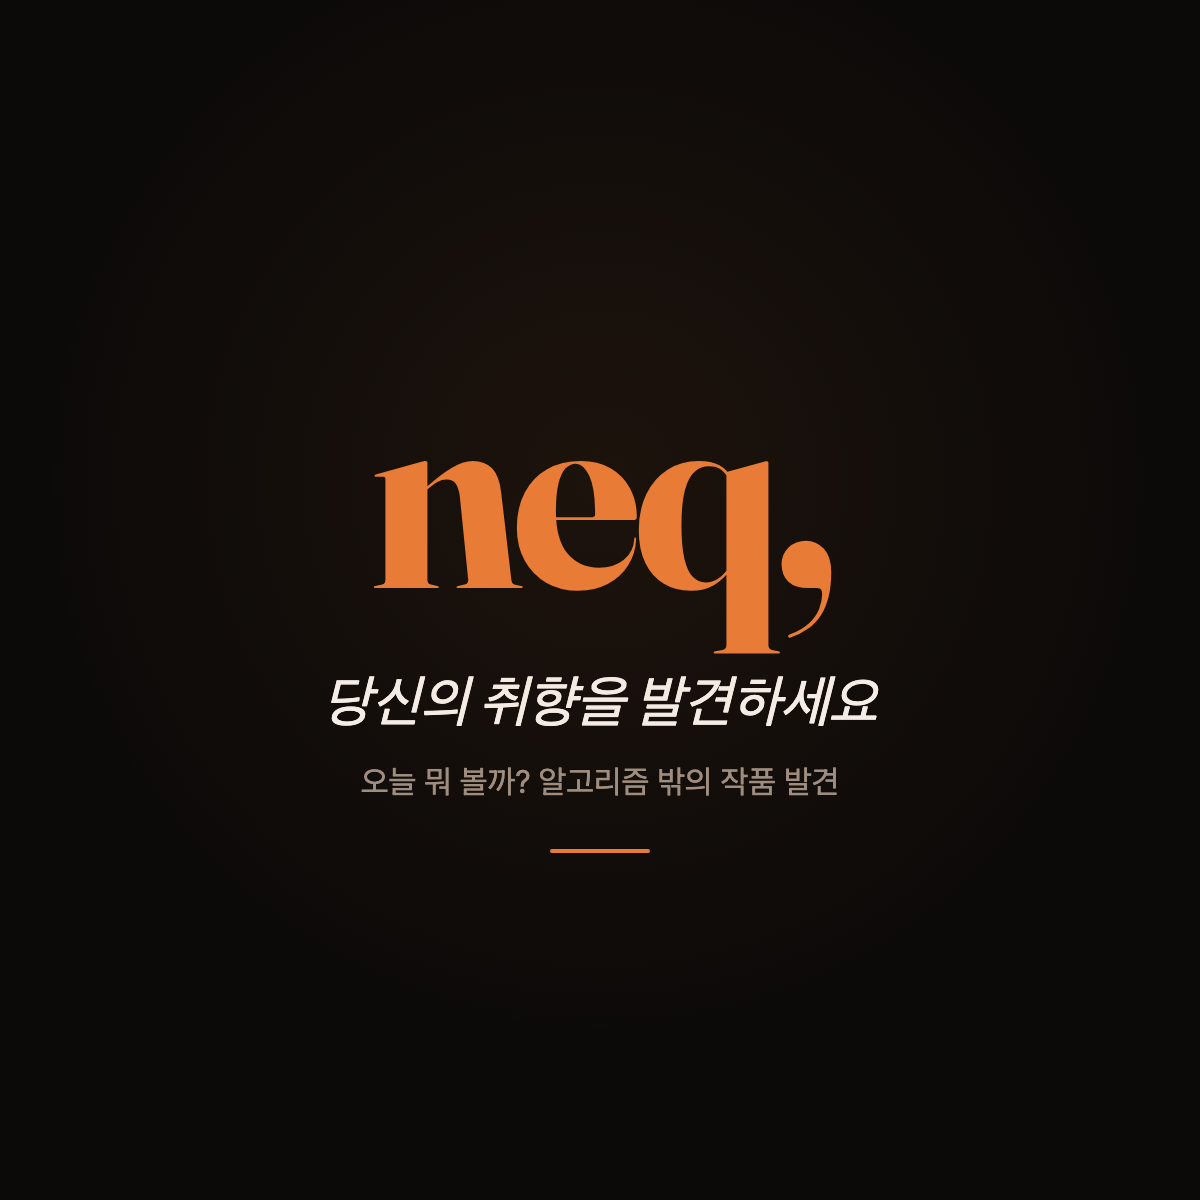
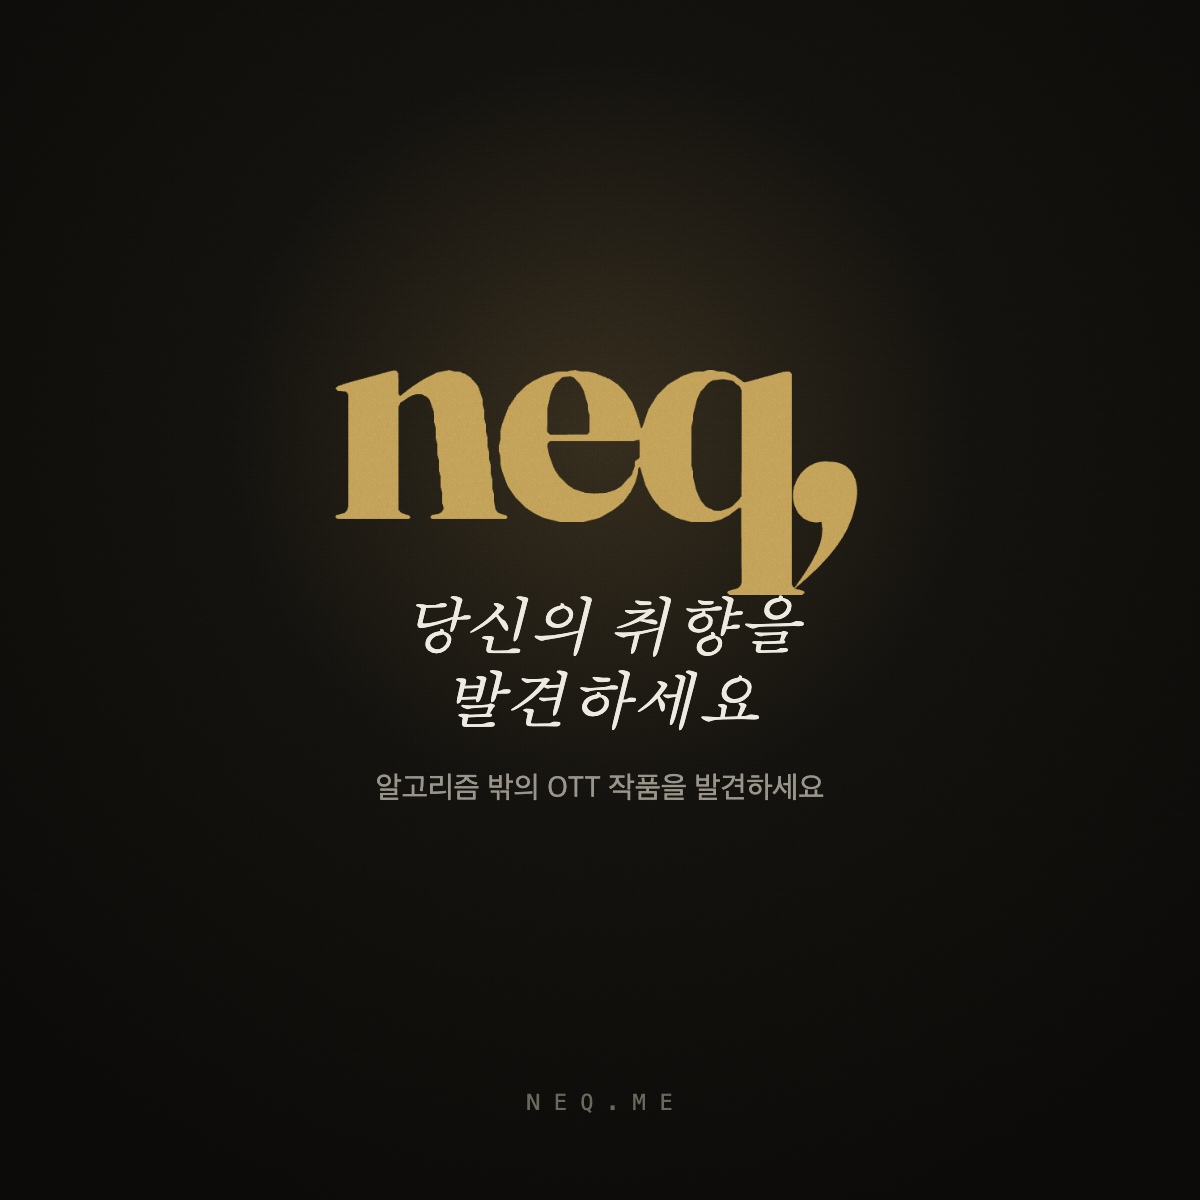
feat(brand): splash + OG image + manifest 카피 통일
- splash-icon.png 신규 적용 (Warm Vignette + 워드마크 + 한글 서브카피, Expo default 폐기)
- OG image 2종 교체 (1200×630 링크 프리뷰 + 1200×1200 IG/범용, neko 시절 자산 폐기)
- manifest.json 카피 정본 통일
  · name: "neq, — 오늘 뭐 볼까?" → "neq, — 당신의 취향을 발견하세요"
  · description: "OTT 콘텐츠 발굴/큐레이션" → "알고리즘 밖의 OTT 작품을 발견하세요"
- BRAND-EXTRAS-SPEC.md 정본 보관 (Aperture Breath loading 등 spec)

Changed region(s): [[0.2775, 0.2775, 0.74, 0.6783], [0.4317, 0.8942, 0.4933, 0.925], [0.5242, 0.8942, 0.555, 0.925]]

diff --git a/apps/native/assets/BRAND-EXTRAS-SPEC.md b/apps/native/assets/BRAND-EXTRAS-SPEC.md
@@ -1,0 +1,34 @@
+# neq, — Splash / OG / Loading 스펙 (외부 의뢰 3건)
+
+확정 자산 기반 · #C4A35A on #12110E · Warm Vignette 톤
+
+## A · Splash (확정: Warm Vignette)
+- 배경: `radial-gradient(120% 90% at 50% 38%, #1c1813, #12110E 56%, #0c0b09)` + amber glow + 5% film grain
+- 워드마크: `neq-wordmark-final.svg` 중앙, 폭 ~56–62%
+- export: `assets/exports/splash-1170x2532.png` (+ 1284×2778 / 1080×2340 동일 비율 재렌더)
+- 정적 런치스크린의 콤마 위치를 흡수 0ms 프레임과 일치 → 이음매 없는 진입
+
+## B · OG image
+- `assets/exports/og-1200x630.png` (1.91:1 · 링크 프리뷰) — 좌측 워드마크 + 카피, 우측 콤마 모티프
+- `assets/exports/og-1200x1200.png` (1:1 · IG/범용) — 중앙 정렬 + neq.me
+- 카피: **"당신의 취향을 발견하세요"** / 보조 **"알고리즘 밖의 OTT 작품을 발견하세요"**
+- meta: og:image(+width/height), twitter:card=summary_large_image
+
+## C · Loading (확정: C2 Aperture Breath)
+렌즈 조리개 호흡 — 동심원 3겹 + 중앙 빛점. 콤마/스피너 없음.
+
+| 요소 | 애니메이션 | 타이밍 |
+|------|-----------|--------|
+| ring r1 (38%) | scale 0.92→1.04→0.92, opacity .5→1→.5 | 2.4s ease-in-out loop |
+| ring r2 (56%) | 동일, delay 0.18s, opacity 상한 .3 | |
+| ring r3 (74%) | 동일, delay 0.36s, opacity 상한 .16 | |
+| center dot | opacity .55→1→.55, glow blur 14px | 2.4s |
+
+- easing: `--ease-soft` (sinusoidal 근사), 무한 루프, seamless
+- 색: 링 `rgba(196,163,90, .16~.5)`, dot `#C4A35A`
+- 컨텍스트: 검색 / 범용 대기 (기본). 메시지 예: "취향을 살펴보는 중"
+- reduced-motion: 정지 (링 1.0 / opacity 고정)
+- Lottie/Reanimated: 3 ring 레이어 scale+opacity 키프레임 + dot opacity. 8KB 미만.
+
+## 비주얼 언어 일관성
+A·B·C 모두 단일 amber + 영화의 빛(glow/iris/projector) + Quiet Ink 여백. anti-slop 준수(네온·그라디언트 버튼·이모지·스피너 없음).